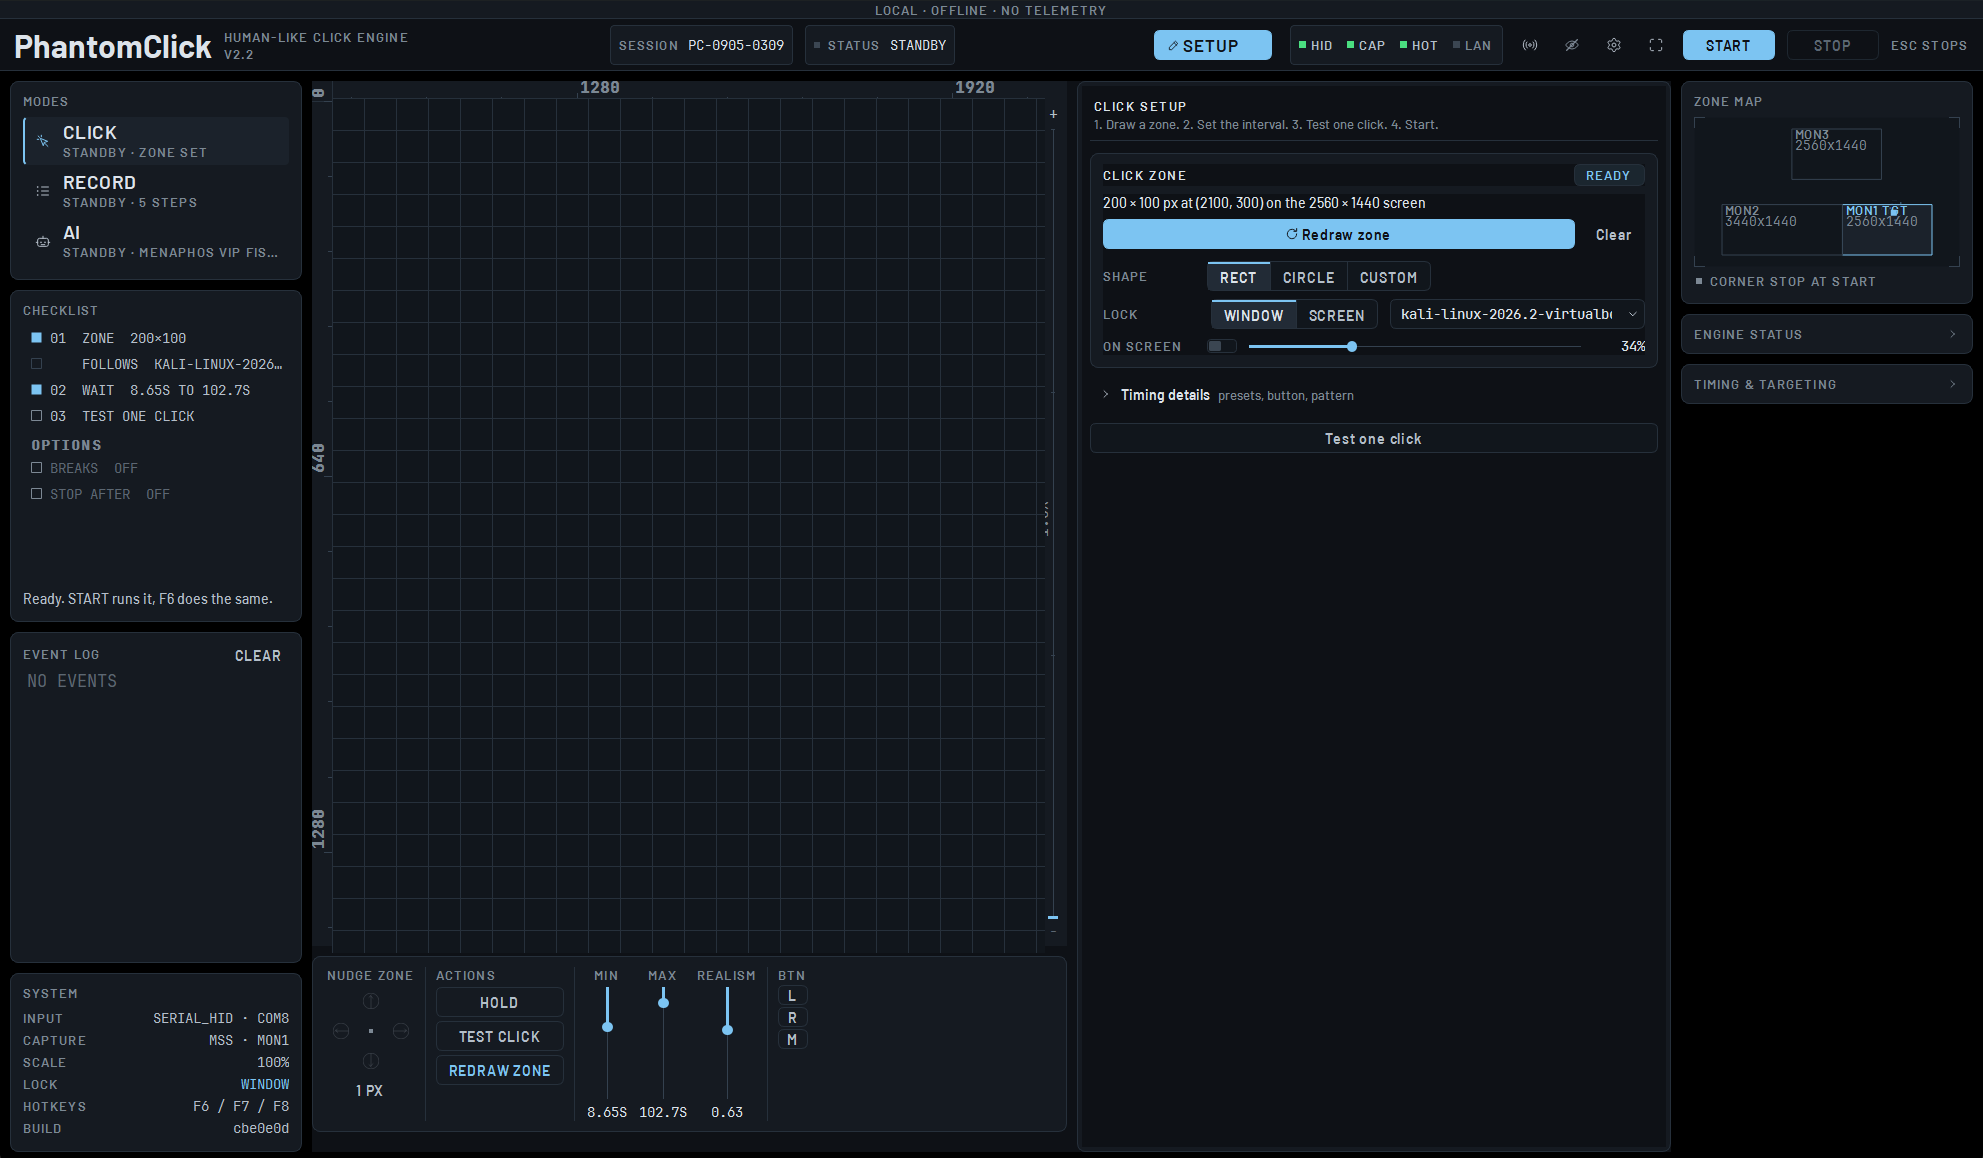
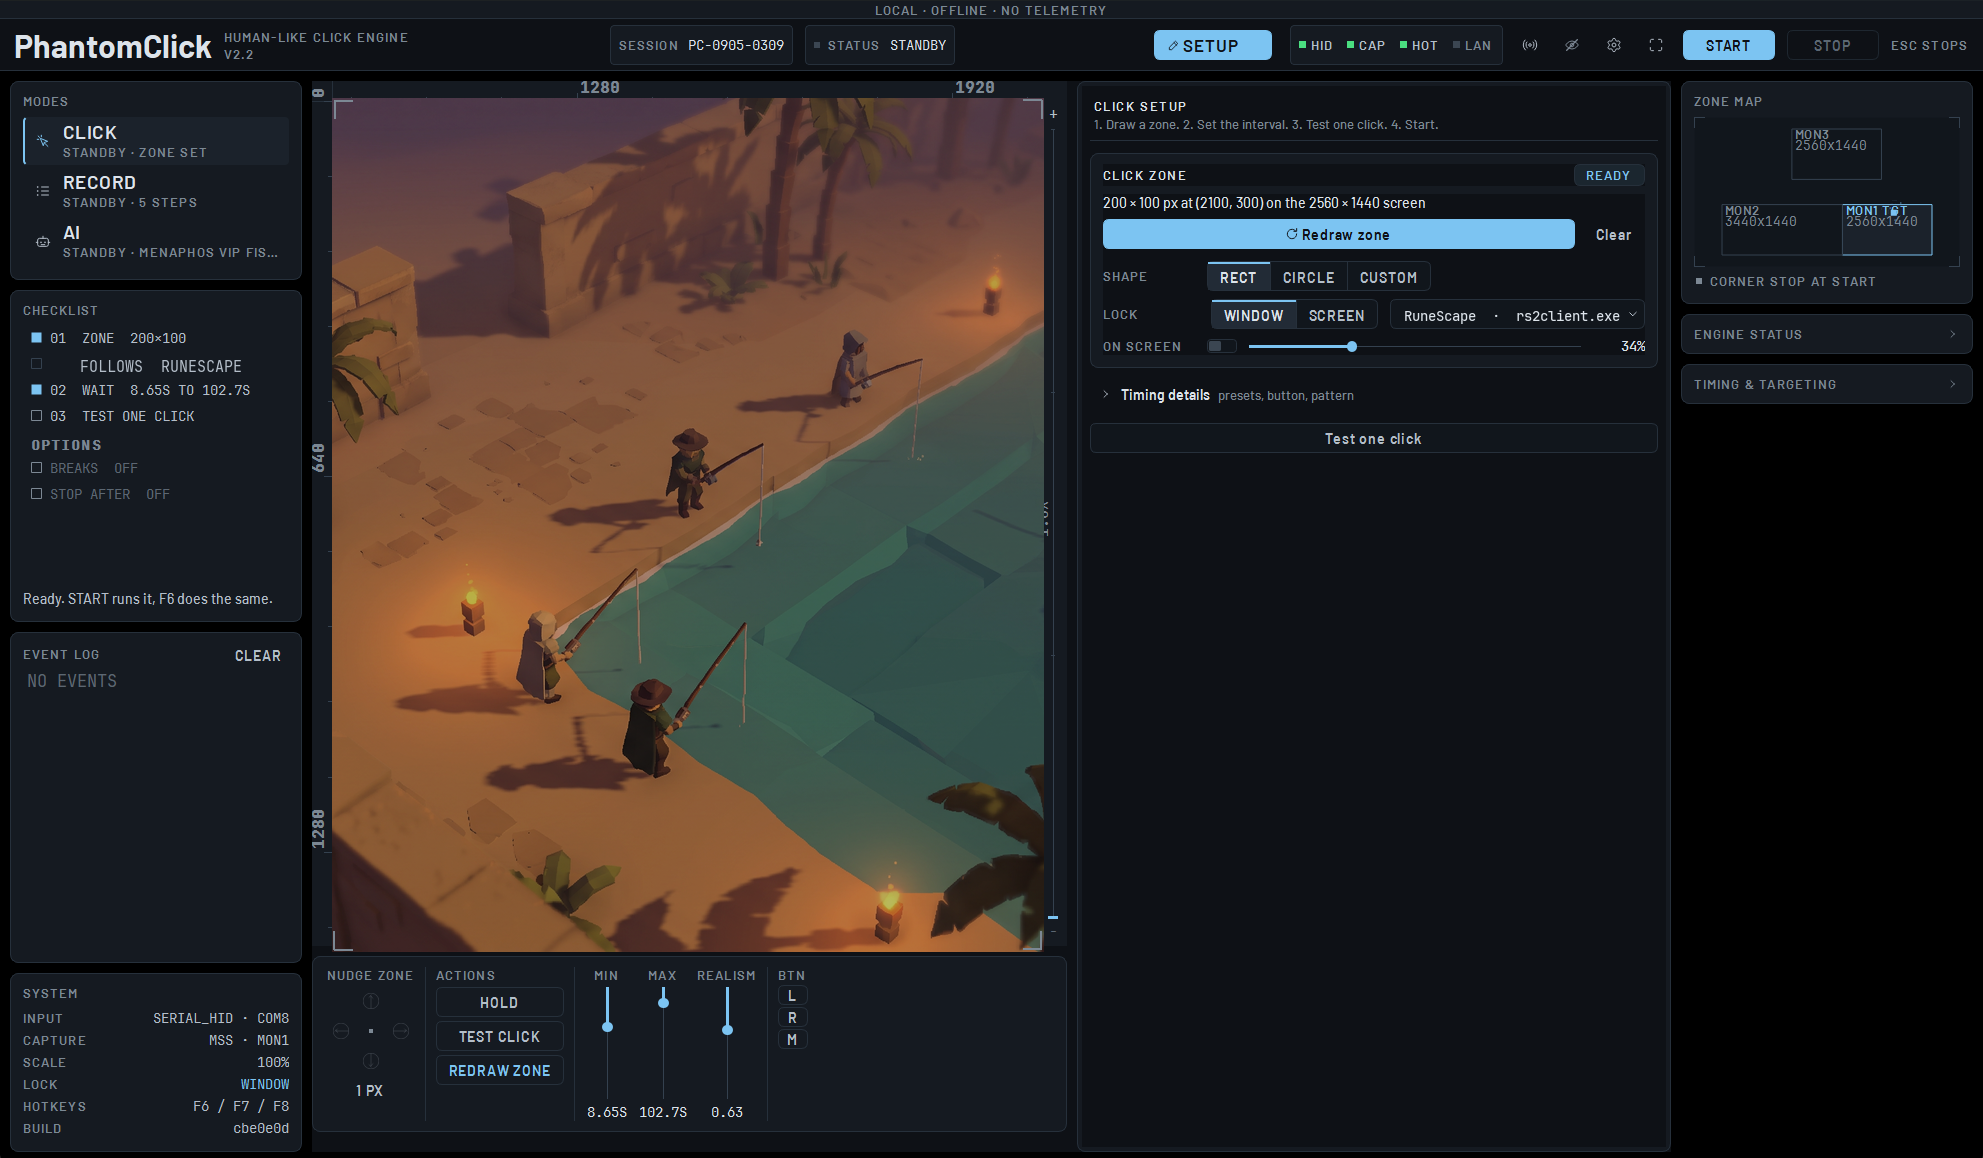
README screenshots show a game scene in the live view
A generated fantasy fishing scene stands in for the captured monitor in
the Click, Record and AI screenshots, darkened the way the app darkens a
live frame, so no desktop content ships. The lock target in the Click
shot reads RuneScape.

Claude-Session: https://claude.ai/code/session_017FG8atX8edKrwrKJdk9yAP

Changed region(s): [[0.1538, 0.0622, 0.5537, 0.8394], [0.7075, 0.2487, 0.8306, 0.2798], [0.0308, 0.3109, 0.123, 0.342]]

diff --git a/README.md b/README.md
@@ -37,8 +37,8 @@ next to the exe, so put the file in a folder of its own.
 
 The whole app is one screen. Modes and the checklist on the left, the live view
 of your target monitor in the middle, the editor for the active mode on the right,
-and the zone map and telemetry at the far right. The live view is blanked in
-these screenshots.
+and the zone map and telemetry at the far right. The game scene in the live
+view is a stand-in image; the app captures whatever is on your target monitor.
 
 **Click mode.** Draw a zone on your screen, set the wait, test one click, press START. The zone can follow a window, and the LOCK row lists every open window so you can switch targets in one pick.
 
